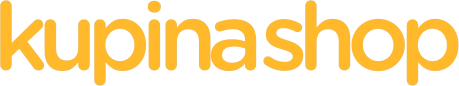
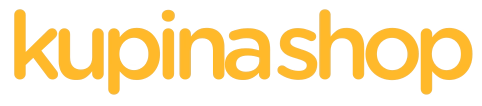
feat: brendovi kao marquee traka (klizi ulevo kao vesti, pauza na hover, reduced-motion fallback) + ORIGINALNI logoi bez skidanja pozadine (Lazar 05.09)

diff --git a/index.html b/index.html
@@ -165,17 +165,33 @@
       <span class="kicker">Poverenje</span>
       <h2>Brendovi koji se pakuju u našem magacinu</h2>
     </div>
-    <div class="logo-strip" aria-label="Brendovi koje pakujemo i šaljemo">
-      <span class="brand-chip slika"><img src="images/brend-maleni.png" alt="maleni" width="500" height="114" loading="lazy"></span>
-      <span class="brand-chip slika"><img src="images/brend-shopex.png" alt="Shopex" width="696" height="150" loading="lazy"></span>
-      <span class="brand-chip slika"><img src="images/brend-naklik.png" alt="Naklik" width="384" height="150" loading="lazy"></span>
-      <span class="brand-chip slika"><img src="images/brend-hir.png" alt="Hir Shop" width="487" height="85" loading="lazy"></span>
-      <span class="brand-chip slika"><img src="images/brend-plantigo.png" alt="Plantigo" width="613" height="150" loading="lazy"></span>
-      <span class="brand-chip slika"><img src="images/brend-rabito.png?v=3" alt="Rabito" width="252" height="150" loading="lazy"></span>
-      <span class="brand-chip slika"><img src="images/brend-regenpro.png" alt="ReGen pro" width="1009" height="150" loading="lazy"></span>
-      <span class="brand-chip slika"><img src="images/brend-solea.png" alt="Solea" width="190" height="32" loading="lazy"></span>
-      <span class="brand-chip slika"><img src="images/brend-kupina.png" alt="Kupina Shop" width="459" height="86" loading="lazy"></span>
-      <span class="brand-chip">TVTop</span>
+    <div class="marquee" aria-label="Brendovi koje pakujemo i šaljemo">
+      <div class="marquee-track">
+        <div class="marquee-group">
+        <img src="images/brend-maleni.png?v=4" alt="maleni" width="500" height="114" loading="lazy">
+        <img src="images/brend-shopex.png?v=4" alt="Shopex" width="636" height="150" loading="lazy">
+        <img src="images/brend-naklik.png?v=4" alt="Naklik" width="347" height="150" loading="lazy">
+        <img src="images/brend-hir.png?v=4" alt="Hir Shop" width="500" height="88" loading="lazy">
+        <img src="images/brend-plantigo.png?v=4" alt="Plantigo" width="586" height="150" loading="lazy">
+        <img src="images/brend-rabito.png?v=4" alt="Rabito" width="252" height="150" loading="lazy">
+        <img src="images/brend-regenpro.png?v=4" alt="ReGen pro" width="450" height="150" loading="lazy">
+        <img src="images/brend-solea.png?v=4" alt="Solea" width="230" height="80" loading="lazy">
+        <img src="images/brend-kupina.png?v=4" alt="Kupina Shop" width="482" height="106" loading="lazy">
+        <span class="brand-chip">TVTop</span>
+        </div>
+        <div class="marquee-group" aria-hidden="true">
+        <img src="images/brend-maleni.png?v=4" alt="maleni" width="500" height="114" loading="lazy">
+        <img src="images/brend-shopex.png?v=4" alt="Shopex" width="636" height="150" loading="lazy">
+        <img src="images/brend-naklik.png?v=4" alt="Naklik" width="347" height="150" loading="lazy">
+        <img src="images/brend-hir.png?v=4" alt="Hir Shop" width="500" height="88" loading="lazy">
+        <img src="images/brend-plantigo.png?v=4" alt="Plantigo" width="586" height="150" loading="lazy">
+        <img src="images/brend-rabito.png?v=4" alt="Rabito" width="252" height="150" loading="lazy">
+        <img src="images/brend-regenpro.png?v=4" alt="ReGen pro" width="450" height="150" loading="lazy">
+        <img src="images/brend-solea.png?v=4" alt="Solea" width="230" height="80" loading="lazy">
+        <img src="images/brend-kupina.png?v=4" alt="Kupina Shop" width="482" height="106" loading="lazy">
+        <span class="brand-chip">TVTop</span>
+        </div>
+      </div>
     </div>
   </div>
 </section>

diff --git a/stil.css b/stil.css
@@ -247,3 +247,14 @@ footer a:hover{color:var(--orange)}
 .tekst-foto img{width:100%;aspect-ratio:16/9;object-fit:cover;border-radius:var(--radius);box-shadow:var(--shadow)}
 .tekst-foto figcaption{font-size:.85rem;color:var(--body);margin-top:.6rem;text-align:center}
 @media(max-width:640px){.tekst-foto{margin-top:1.8rem}.tekst-foto img{aspect-ratio:4/3}}
+
+/* ---------- brendovi marquee (ide polako ulevo, kao vesti) ---------- */
+.marquee{overflow:hidden;margin-top:1.6rem;mask-image:linear-gradient(90deg,transparent,#000 7%,#000 93%,transparent);-webkit-mask-image:linear-gradient(90deg,transparent,#000 7%,#000 93%,transparent)}
+.marquee-track{display:flex;width:max-content;animation:marquee-levo 45s linear infinite}
+.marquee:hover .marquee-track{animation-play-state:paused}
+.marquee-group{display:flex;align-items:center;gap:3.2rem;padding-right:3.2rem}
+.marquee-group img{height:46px;width:auto;display:block;border-radius:9px}
+.marquee-group .brand-chip{filter:none;opacity:1;color:#6c7480}
+@keyframes marquee-levo{from{transform:translateX(0)}to{transform:translateX(-50%)}}
+@media(prefers-reduced-motion:reduce){.marquee-track{animation:none;width:auto;flex-wrap:wrap;justify-content:center}.marquee{mask-image:none;-webkit-mask-image:none}}
+@media(max-width:640px){.marquee-group img{height:34px}.marquee-group{gap:1.8rem;padding-right:1.8rem}}
